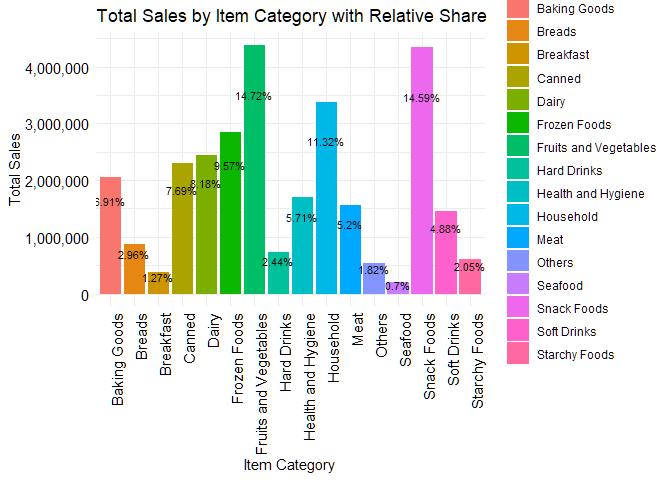
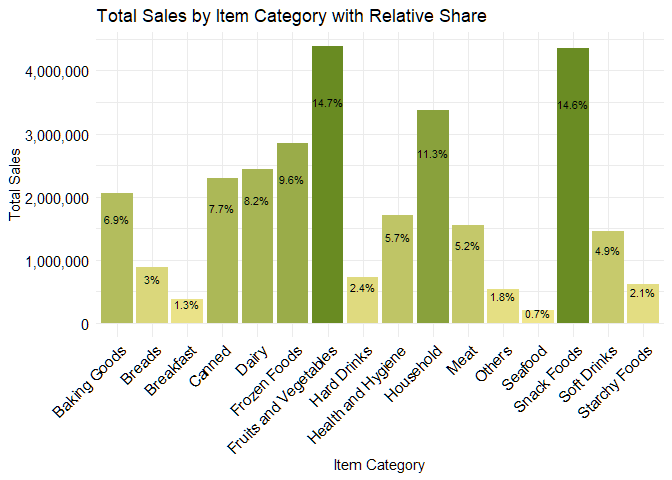
Finalized Solution for David by Dennis

diff --git a/Projects/DavidPrntz/Deeznis.md b/Projects/DavidPrntz/Deeznis.md
@@ -28,8 +28,6 @@
     ## 
     ##     col_factor
 
-    setwd("~/STUDIUM/Programming/R2 Data projects/Data-projects-with-R-and-GitHub/Projects/DavidPrntz")
-
     # import dataset
     import("data.csv", setclass = "tibble") -> BMdata 
 
@@ -55,23 +53,61 @@
     sales_by_category$relative_share <- sales_by_category$Item_Outlet_Sales / total_sales
 
     # Sales bar plot with share%
-    sales_bar_plot <- ggplot(sales_by_category, aes(x = Item_Type, y = Item_Outlet_Sales, fill = Item_Type)) +
+    sales_bar_plot <- ggplot(sales_by_category, aes(x = Item_Type, y = Item_Outlet_Sales, fill = Item_Outlet_Sales)) +
       geom_bar(stat = "identity") +
-      geom_text(aes(label = paste0(round(relative_share * 100, 2), "%")),
+      geom_text(aes(label = paste0(round(relative_share * 100, 1), "%")),
                 position = position_stack(vjust = 0.8),
                 size = 3, color = "black") +
       labs(title = "Total Sales by Item Category with Relative Share", 
            x = "Item Category", 
            y = "Total Sales",
-           fill = "Item Category") +
+           fill = "Total Sales") +
+      scale_fill_gradient(low = "khaki", high = "olivedrab4") +
       theme_minimal() +
-      theme(axis.text.x = element_text(size = 11.5, angle = 90, hjust = 1, color = "black"),
-            axis.text.y = element_text(size = 11.5, color="black")) +
+      theme(axis.text.x = element_text(size = 11.5, angle = 45, hjust = 1, color = "black"),
+            axis.text.y = element_text(size = 11.5, color="black"), 
+            legend.position = "none") +
       scale_y_continuous(labels = comma)
 
     print(sales_bar_plot)
 
 ![](Deeznis_files/figure-markdown_strict/Sales%20Plot-1.png)
+
+## Sales plot by Location Tier
+
+    # First sum the sales by item category and location type
+    #sales_by_category_location <- aggregate(Item_Outlet_Sales ~ Item_Type + Outlet_Location_Type, data = BMdata, FUN = sum)
+
+    sales_by_category_location <- BMdata %>%
+      group_by(Item_Type, Outlet_Location_Type) %>%
+      summarise(total_sales = sum(Item_Outlet_Sales),
+                avg_sales_per_store = sum(Item_Outlet_Sales) / n_distinct(Outlet_Identifier))
+
+    ## `summarise()` has grouped output by 'Item_Type'. You can override using the
+    ## `.groups` argument.
+
+    # Create the sales bar plot with facets for Outlet_Location_Type
+    sales_bar_plot_location <- ggplot(sales_by_category_location, aes(x = Item_Type, y = avg_sales_per_store, fill = avg_sales_per_store)) +
+      geom_bar(stat = "identity") +
+      labs(title = "Average Sales per Store by Item Category and Location Type", 
+           x = "Item Category", 
+           y = "Average Sales per Store",
+           fill = "Average Sales per Store") +
+      scale_fill_gradient(low = "khaki", high = "olivedrab4") +
+      facet_wrap(~ Outlet_Location_Type, nrow = 1) +  
+      theme_minimal() +
+      theme(axis.text.x = element_text(size = 8, angle = 90, hjust = 1, color = "black"),
+            axis.text.y = element_text(size = 11.5, color="black"), 
+            legend.position = "none") +
+      scale_y_continuous(labels = comma)
+
+
+    print(sales_bar_plot_location)
+
+![](Deeznis_files/figure-markdown_strict/Sales%20plot%20by%20Location%20Tier-1.png)
+
+    ggsave("SolutionsByDennis/sales_bar_plot_location.png", plot = sales_bar_plot_location, 
+           width = 300, height = 200, units = "mm", dpi = 600, bg = "white")
 
 ## Revenue plot
 
@@ -96,8 +132,37 @@
 
     print(rev_bar_plot)
 
-![](Deeznis_files/figure-markdown_strict/Revenue%20Plot-1.png)
+![](Deeznis_files/figure-markdown_strict/Revenue%20Plot-1.png) \##
+Revenue by Tier type plot
 
-    ### Zweiter teil kommt noch
-    ![Sales Plot](/Projects/DavidPrntz/SolutionsByDennis/Sales_Plot.png)
-    ![Revenue Plot](/Projects/DavidPrntz/SolutionsByDennis/RPlot.png)
+    # Calculate total revenue and average revenue per store by item category and outlet location type
+    revenue_by_category_location <- BMdata %>%
+      group_by(Item_Type, Outlet_Location_Type) %>%
+      summarise(total_revenue = sum(revenue),
+                avg_revenue_per_store = sum(revenue) / n_distinct(Outlet_Identifier))
+
+    ## `summarise()` has grouped output by 'Item_Type'. You can override using the
+    ## `.groups` argument.
+
+    # Revenue bar chart with color scale by average visibility and facet by Outlet_Location_Type
+    rev_bar_plot_location <- ggplot(revenue_by_category_location, aes(x = Item_Type, y = total_revenue, fill = avg_revenue_per_store)) +
+      geom_bar(stat = "identity") +
+      labs(title = "Total Revenue by Item Category and Outlet Location",
+           x = "Item Category",
+           y = "Total Revenue",
+           fill = "Average Visibility") +
+      scale_fill_gradient(low = "lightblue", high = "darkblue") +
+      facet_wrap(~ Outlet_Location_Type, nrow = 1) +  # Facet by Outlet_Location_Type
+      theme_minimal() +
+      theme(axis.text.x = element_text(size = 8, angle = 90, hjust = 1, color = "black"),
+            axis.text.y = element_text(size = 11.5, color="black"),
+            legend.position = "none") +
+      scale_y_continuous(labels = comma)
+
+
+    print(rev_bar_plot_location)
+
+![](Deeznis_files/figure-markdown_strict/Rev%20plot%20by%20Location%20Tier-1.png)
+
+    ggsave("SolutionsByDennis/rev_bar_plot_location.png", plot = rev_bar_plot_location, 
+           width = 300, height = 200, units = "mm", dpi = 600, bg = "white")
